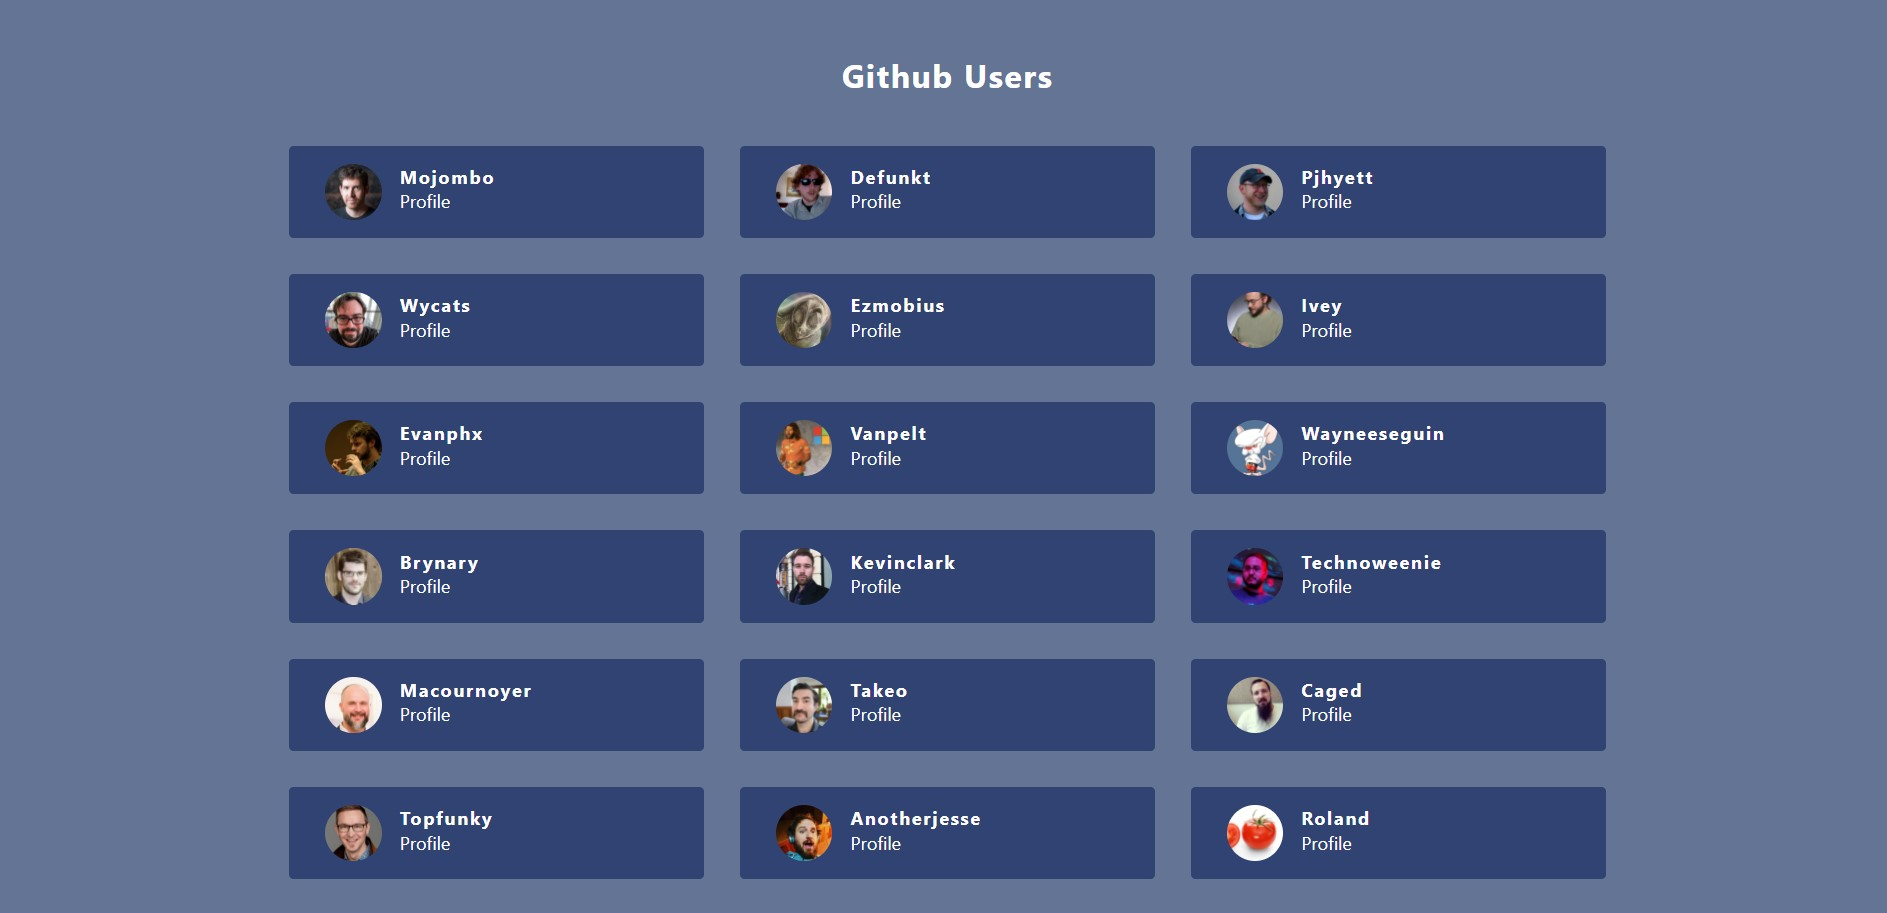
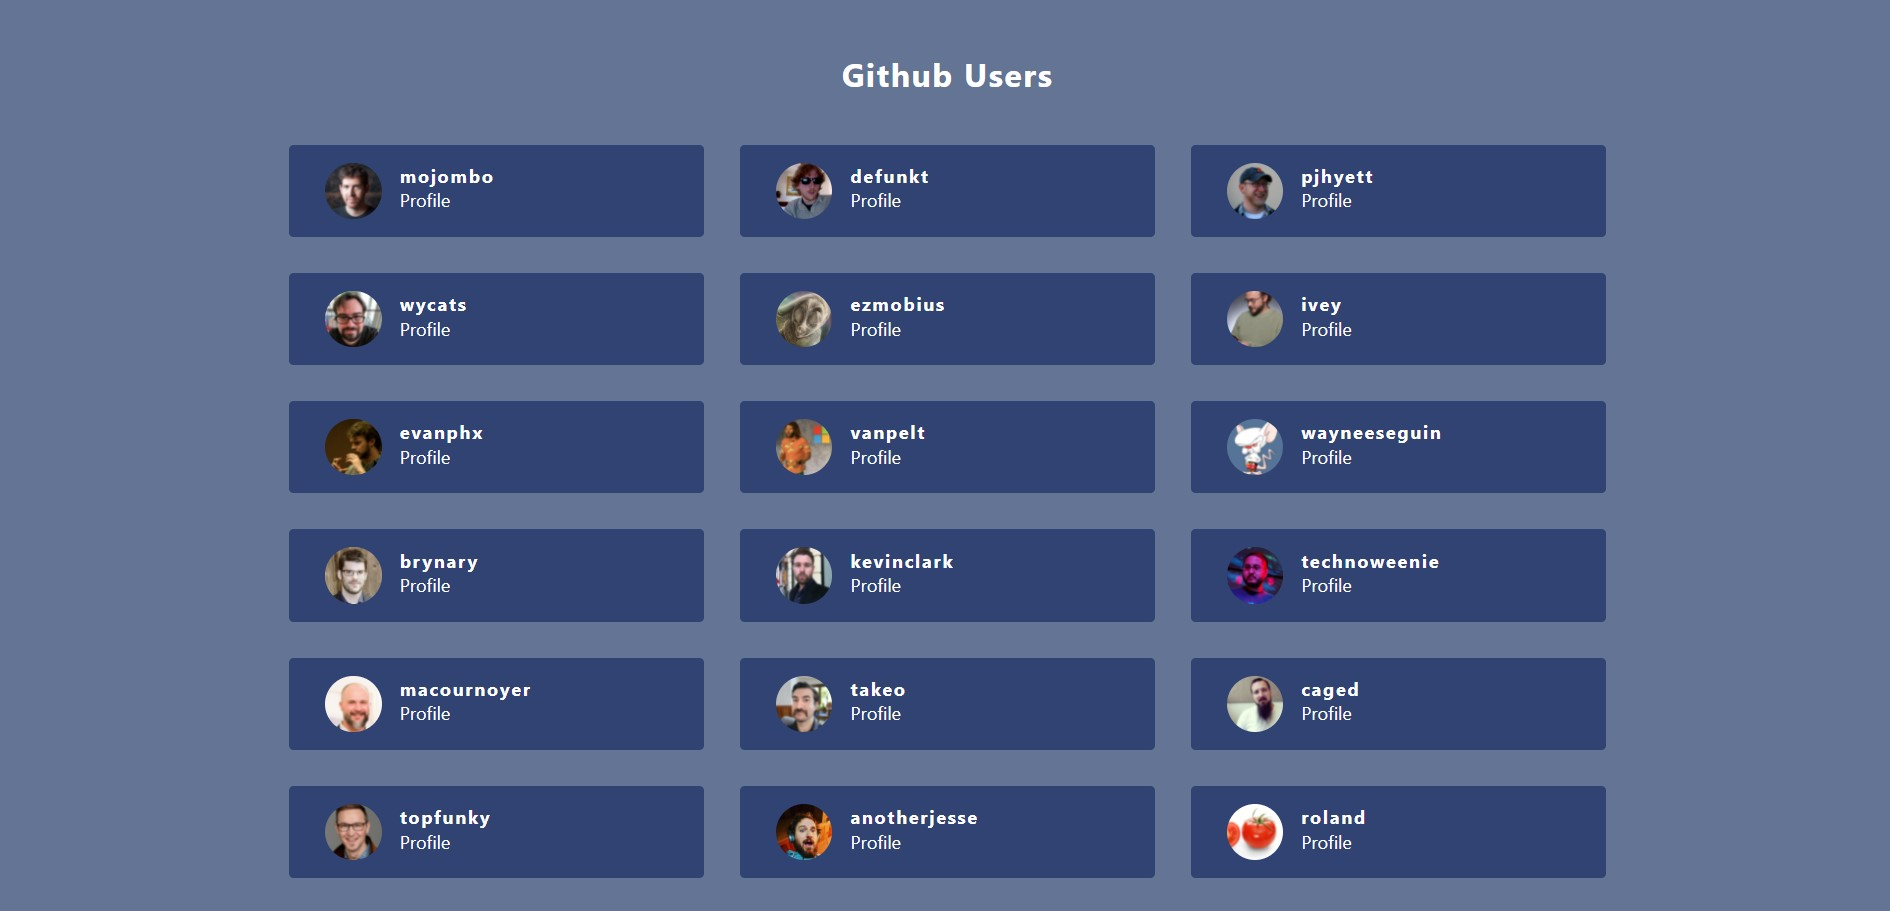
clears mistake

diff --git a/useeffect/src/index.css b/useeffect/src/index.css
@@ -267,6 +267,7 @@ Global Classes
 .users h4 {
   margin-bottom: 0.15rem;
   color: var(--clr-white);
+  text-transform: none;
 }
 
 .users__heading {

diff --git a/README.md b/README.md
@@ -8,7 +8,7 @@ This project was built with the aim of learning usage of useState.
 
 ## Github Users
 
-![alt text](https://firebasestorage.googleapis.com/v0/b/birthday-react-6eca4.appspot.com/o/project2_screen.jpg?alt=media&token=80e6a44e-c41b-401a-bcbc-fddb3cd86ccc)
+![alt text](https://firebasestorage.googleapis.com/v0/b/birthday-react-6eca4.appspot.com/o/project2_screen.jpg?alt=media&token=455186e5-85aa-4b9a-a468-6efbca4ce11b)
 
 This project was built with the aim of learning fetching data with useEffect() and useState().
 

diff --git a/useeffect/README.md b/useeffect/README.md
@@ -1,6 +1,6 @@
 # Github Users
 
-![alt text](https://firebasestorage.googleapis.com/v0/b/birthday-react-6eca4.appspot.com/o/project2_screen.jpg?alt=media&token=80e6a44e-c41b-401a-bcbc-fddb3cd86ccc)
+![alt text](https://firebasestorage.googleapis.com/v0/b/birthday-react-6eca4.appspot.com/o/project2_screen.jpg?alt=media&token=455186e5-85aa-4b9a-a468-6efbca4ce11b)
 
 This project was built with the aim of learning fetching data with useEffect() and useState().
 
